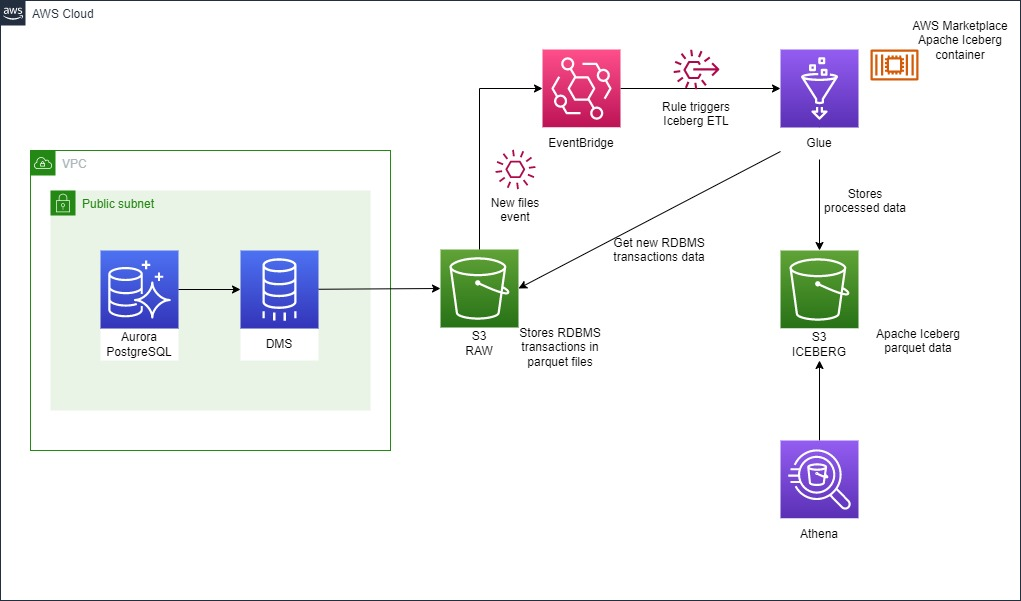
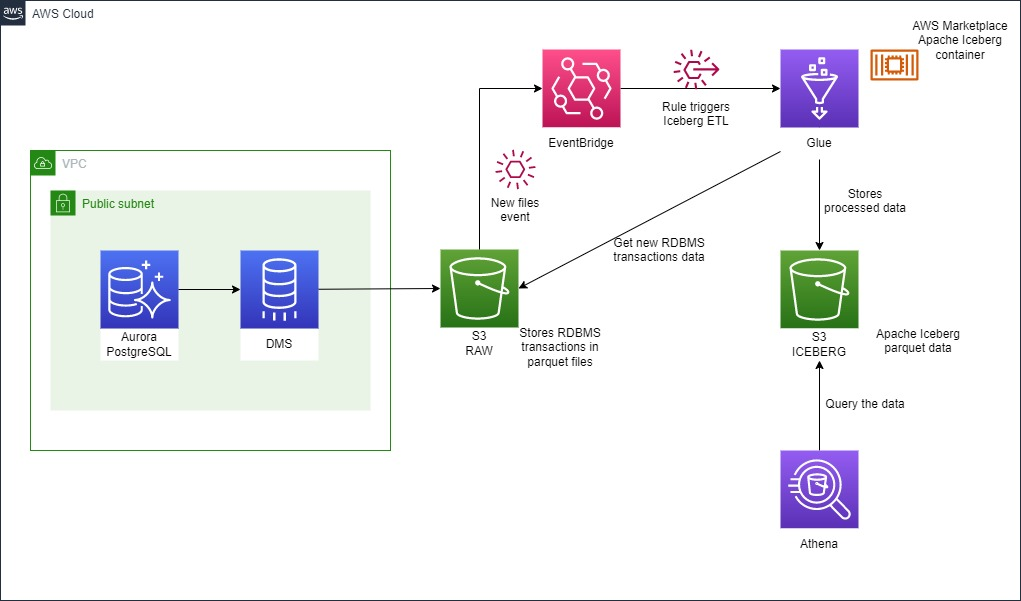
Update title and architecture diagram

Changed region(s): [[0.7591, 0.7188, 0.8501, 0.9285], [0.7894, 0.6589, 0.8805, 0.6889]]

diff --git a/README.md b/README.md
@@ -1,4 +1,4 @@
-# Demo of RDBMS Ingestion Into Datalake with AWS Glue & Apache Iceberg 
+# Demo of RDBMS Ingestion Into an AWS Datalake with AWS Glue & Apache Iceberg 
 
 ## Credits
 This demo is an extension of this AWS Blog article 
